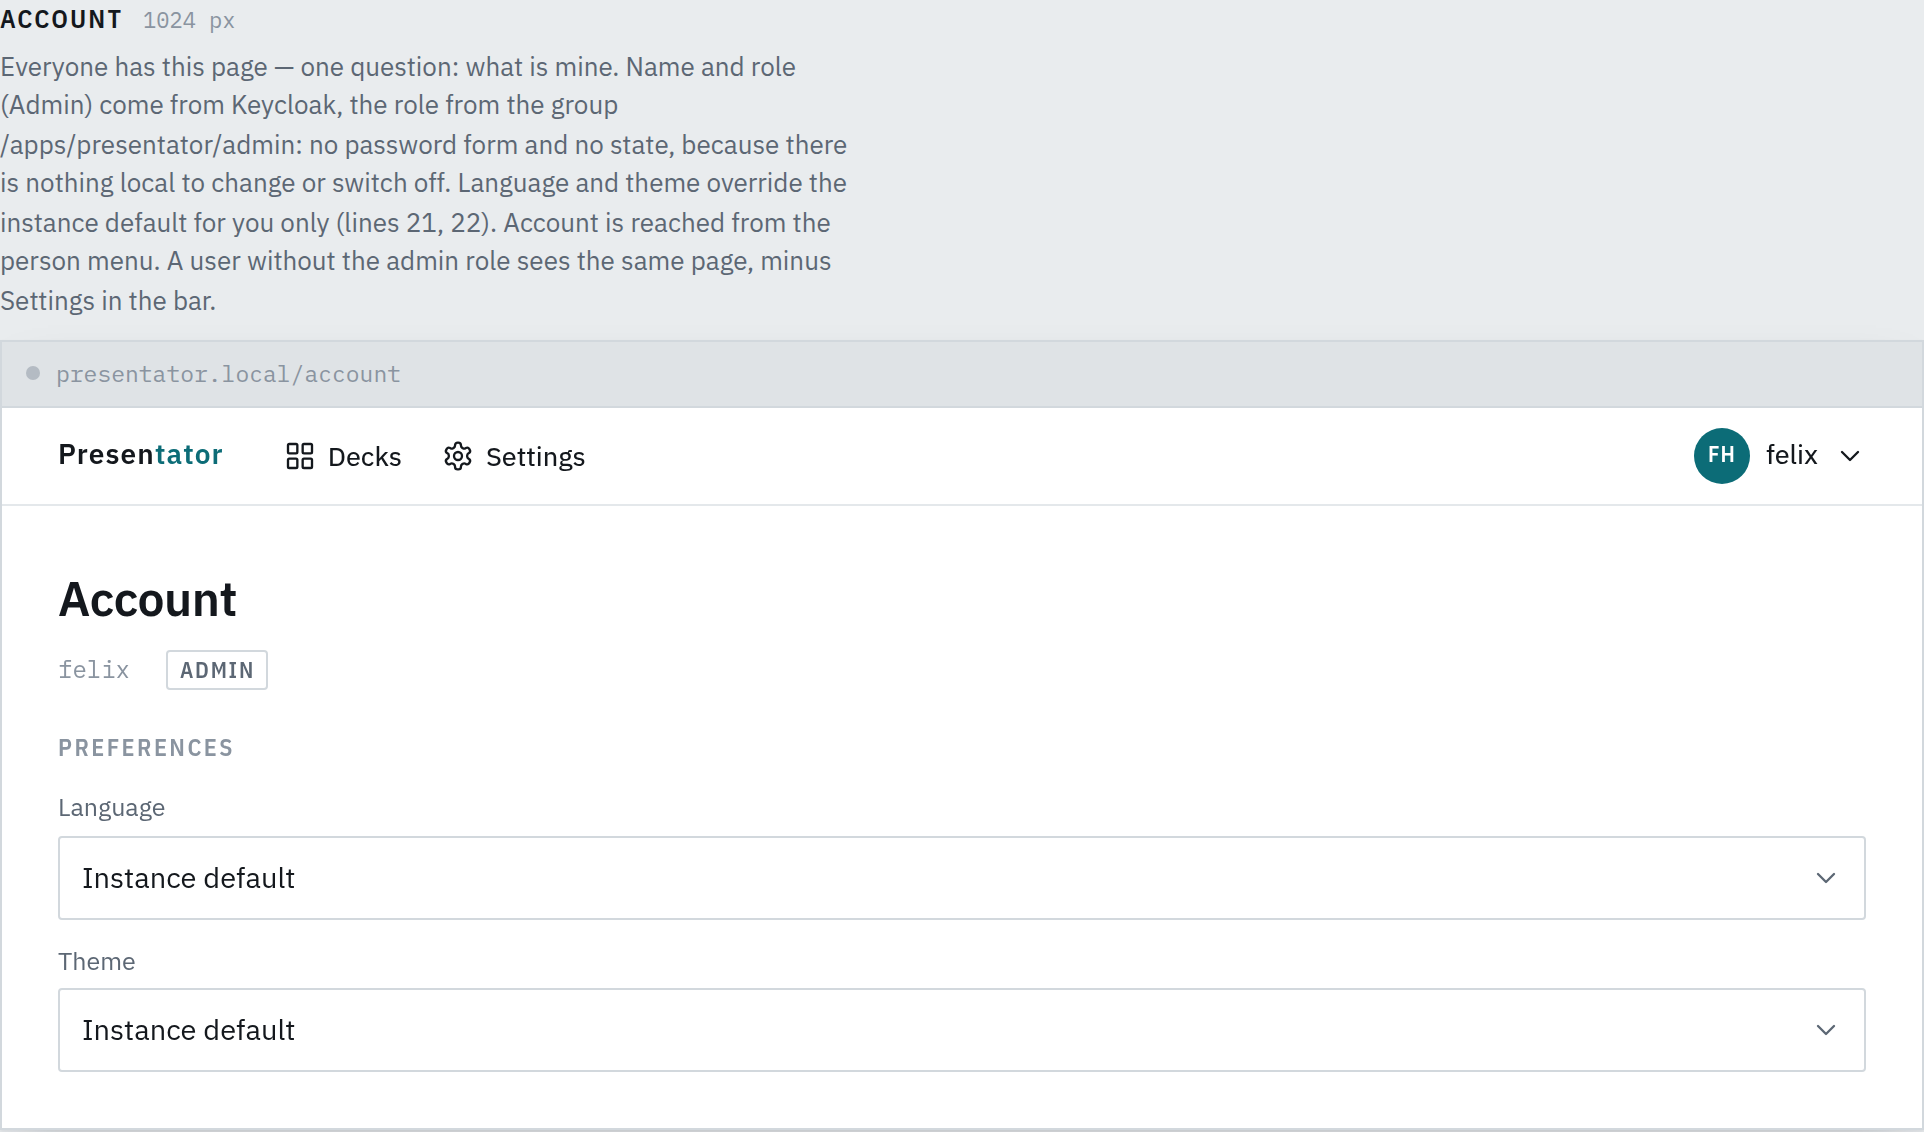
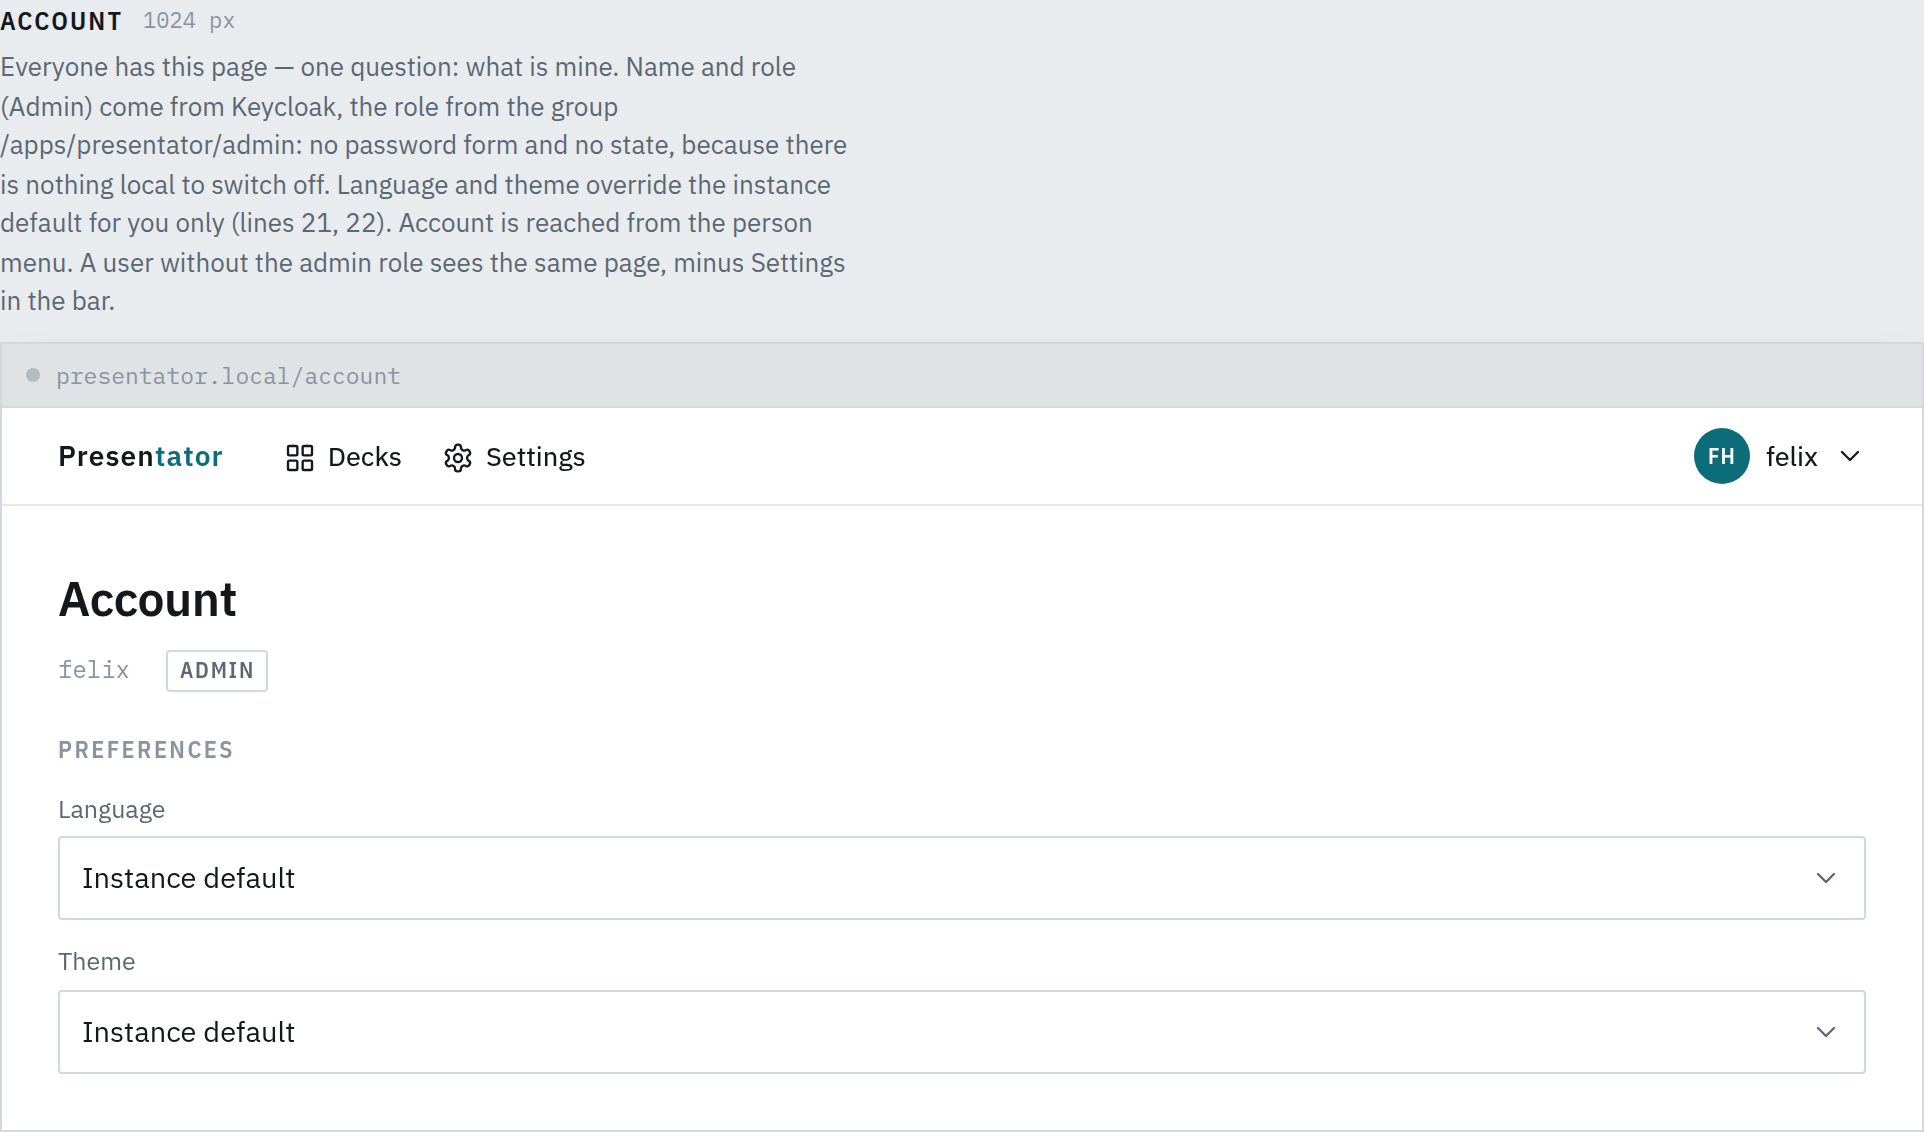
Stitch the sheet from viewport tiles and tighten the Datenschutz and Account wording
The overview sheet came from one 33,190 px capture that rendered blank white
frames and missing captions below about y 10,200. It is now stitched from
4000 CSS px tiles at device scale factor 2 and matches the per-board PNGs.

Datenschutz section 5 names the local record's Kennung (Subject-ID); section 3
says Presentator nutzt (not erhaelt) it. Account caption: nothing local to
switch off. A stale CSS heading comment is reworded.

diff --git a/docs/mockups/m0-lobby.html b/docs/mockups/m0-lobby.html
@@ -1407,7 +1407,7 @@
 
   .sep { color: var(--ink-faint); }
 
-  /* ---------- accounts: the one new state, the user row ---------- */
+  /* ---------- the switched-off state ---------- */
 
   /* downloaded — split disc, grey: switched off, not broken */
   .state--off { color: var(--ink-faint); }
@@ -3859,7 +3859,7 @@
       <figure class="board">
         <figcaption class="board-cap">
           <div class="board-title">Account <span class="w">1024 px</span></div>
-          <p class="board-note">Everyone has this page — one question: what is mine. Name and role (Admin) come from Keycloak, the role from the group /apps/presentator/admin: no password form and no state, because there is nothing local to change or switch off. Language and theme override the instance default for you only (lines 21, 22). Account is reached from the person menu. A user without the admin role sees the same page, minus Settings in the bar.</p>
+          <p class="board-note">Everyone has this page — one question: what is mine. Name and role (Admin) come from Keycloak, the role from the group /apps/presentator/admin: no password form and no state, because there is nothing local to switch off. Language and theme override the instance default for you only (lines 21, 22). Account is reached from the person menu. A user without the admin role sees the same page, minus Settings in the bar.</p>
         </figcaption>
         <div class="frame" style="--w: 960px">
           <div class="route">presentator.local/account</div>
@@ -4311,7 +4311,7 @@ Cannot resolve import "./folien/03-fabric.md" from slides.md
               <section>
                 <h2>3. Empfänger und externe Anbieter</h2>
                 <ul>
-                  <li><b>Keycloak (auth.hallucinai.de):</b> Auftragsverarbeiter der Anmeldung; Presentator erhält von dort Kennung (Subject-ID), Name und Gruppe, kein Passwort.</li>
+                  <li><b>Keycloak (auth.hallucinai.de):</b> Auftragsverarbeiter der Anmeldung; Presentator nutzt von dort Kennung (Subject-ID), Name und Gruppe, kein Passwort.</li>
                   <li><b>Anthropic (Claude):</b> aktuell der einzige aktiv genutzte Antwort-Anbieter des CoPresenter-Features, über den eigenen Claude-Zugang des Betreibers, nicht über einen pro Anfrage übertragenen API-Schlüssel. Übertragen werden die gesprochene Frage als Text, die aktuelle Folie und der gesamte Deckinhalt. <span class="offen">[offen: Anthropics eigene Aufbewahrungs- und Verarbeitungspraxis liegt außerhalb dieses Codes.]</span></li>
                   <li><b>Grok, Codex:</b> die Technik ist vorbereitet, wird vom Code aktuell aber nicht aufgerufen — nur Claude beantwortet Fragen. <span class="offen">[offen: ob/wann sich das ändert, legt der Betreiber fest.]</span></li>
                   <li><b>Sprachausgabe und Spracherkennung:</b> laufen lokal auf dem Server des Betreibers (Piper und Chatterbox für die Sprachausgabe; lokale Spracherkennung). Keine Übertragung an einen externen Sprachanbieter.</li>
@@ -4325,7 +4325,7 @@ Cannot resolve import "./folien/03-fabric.md" from slides.md
               <section>
                 <h2>5. Speicherdauer</h2>
                 <ul>
-                  <li><b>Benutzerkonten:</b> Das Konto selbst wird in Keycloak verwaltet. Presentator führt dazu einen lokalen Eintrag (Benutzername, Rolle, Einstellungen wie Sprache und Darstellung). <span class="offen">[offen: wann der lokale Eintrag gelöscht wird — es gibt keinen Löschweg in Presentator.]</span></li>
+                  <li><b>Benutzerkonten:</b> Das Konto selbst wird in Keycloak verwaltet. Presentator führt dazu einen lokalen Eintrag (Kennung (Subject-ID), Benutzername, Rolle, Einstellungen wie Sprache und Darstellung). <span class="offen">[offen: wann der lokale Eintrag gelöscht wird — es gibt keinen Löschweg in Presentator.]</span></li>
                   <li><b>Sitzungen:</b> Zeile gelöscht beim Abmelden. <span class="offen">[offen: eine nie abgemeldete Sitzung wird im Code nicht automatisch gelöscht.]</span></li>
                   <li><b>Einmalig angezeigte Quellen-Zugriffsschlüssel:</b> spätestens nach 24 Stunden automatisch entfernt.</li>
                   <li><b>Decks und Builds:</b> bis die Quelle entfernt wird oder der Ordner aus Git verschwindet.</li>
@@ -4388,7 +4388,7 @@ Cannot resolve import "./folien/03-fabric.md" from slides.md
               <section>
                 <h2>3. Empfänger und externe Anbieter</h2>
                 <ul>
-                  <li><b>Keycloak (auth.hallucinai.de):</b> Auftragsverarbeiter der Anmeldung; Presentator erhält von dort Kennung (Subject-ID), Name und Gruppe, kein Passwort.</li>
+                  <li><b>Keycloak (auth.hallucinai.de):</b> Auftragsverarbeiter der Anmeldung; Presentator nutzt von dort Kennung (Subject-ID), Name und Gruppe, kein Passwort.</li>
                   <li><b>Anthropic (Claude):</b> einziger aktiv genutzter Anbieter, über den eigenen Claude-Zugang des Betreibers. <span class="offen">[offen: Anthropics eigene Aufbewahrung liegt außerhalb dieses Codes.]</span></li>
                   <li><b>Grok, Codex:</b> vorbereitet, aber vom Code aktuell nicht aufgerufen.</li>
                   <li><b>Sprachausgabe/-erkennung:</b> lokal (Piper, Chatterbox) — keine externe Übertragung.</li>
@@ -4402,7 +4402,7 @@ Cannot resolve import "./folien/03-fabric.md" from slides.md
               <section>
                 <h2>5. Speicherdauer</h2>
                 <ul>
-                  <li><b>Benutzerkonten:</b> Das Konto selbst wird in Keycloak verwaltet. Presentator führt dazu einen lokalen Eintrag (Benutzername, Rolle, Einstellungen wie Sprache und Darstellung). <span class="offen">[offen: wann der lokale Eintrag gelöscht wird — es gibt keinen Löschweg in Presentator.]</span></li>
+                  <li><b>Benutzerkonten:</b> Das Konto selbst wird in Keycloak verwaltet. Presentator führt dazu einen lokalen Eintrag (Kennung (Subject-ID), Benutzername, Rolle, Einstellungen wie Sprache und Darstellung). <span class="offen">[offen: wann der lokale Eintrag gelöscht wird — es gibt keinen Löschweg in Presentator.]</span></li>
                   <li><b>Sitzungen:</b> gelöscht beim Abmelden. <span class="offen">[offen: keine automatische Löschung einer nie abgemeldeten Sitzung.]</span></li>
                   <li><b>Quellen-Zugriffsschlüssel (Entwürfe):</b> nach spätestens 24 Stunden entfernt.</li>
                   <li><b>Decks/Builds:</b> bis die Quelle entfernt wird.</li>
